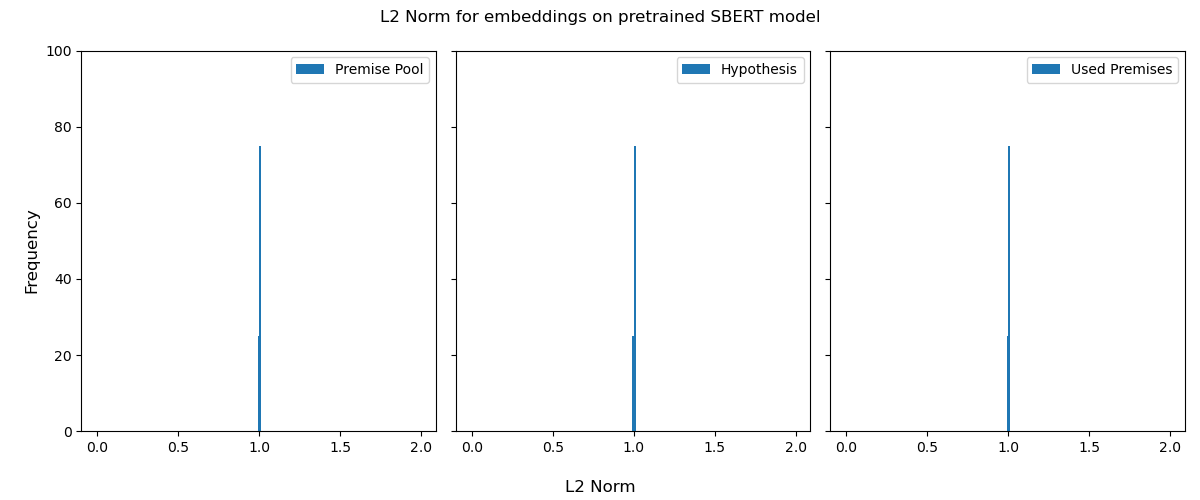
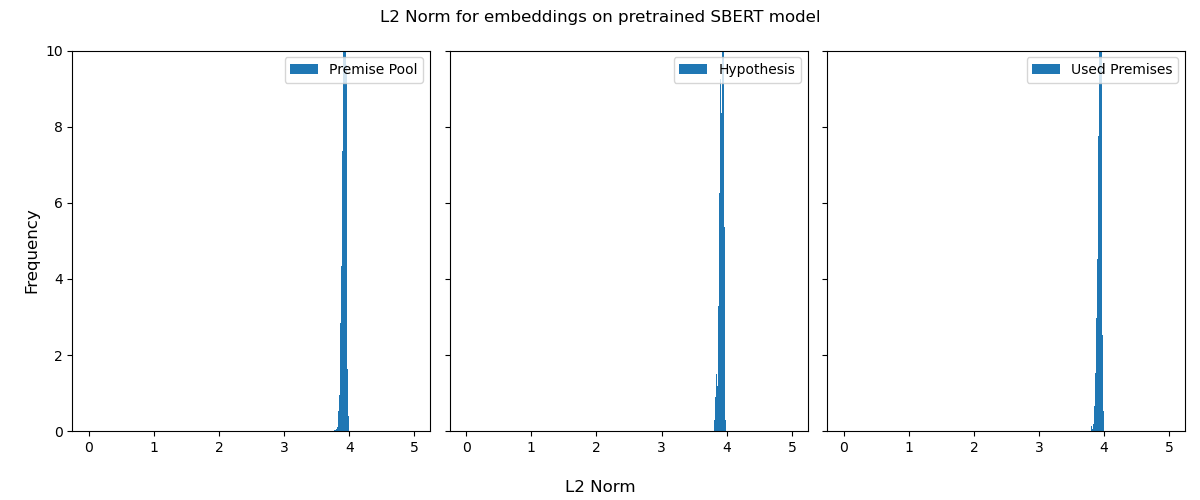
More visual evaluations

diff --git a/eval_compositional_model.py b/eval_compositional_model.py
@@ -1,0 +1,60 @@
+import argparse
+import torch
+import sys
+
+from sentence_transformers import SentenceTransformer
+
+from train_composition import gen_projection_model
+from eval_pretrain_model import genL2report
+
+def evaluateCompositional(model, query_model):
+    # Load data
+    #test_dataset = TripletEvalDataset(os.path.join(os.getcwd(), args.test_data))
+    test_dataset = TripletEvalDataset(os.path.join(os.getcwd(), 'data/test_data.txt'))
+    test_dataloader = DataLoader(test_dataset, batch_size=1, shuffle=False)
+
+    # Evaluate
+    evaluator = RerankingEvaluator(test_dataset)
+    query_model.evaluate(evaluator, output_path=args.save_dir)
+    #query_model.evaluate(evaluator, output_path='output/')
+
+    # Test
+    query_model = SentenceTransformer(args.save_dir).to(device)
+    evaluateCompositional(query_model, query_model)
+
+
+
+def main(args):
+    device = torch.device("cuda" if torch.cuda.is_available() else "cpu")
+    #./checkpoints/triplet_adjacent/
+    model = SentenceTransformer(args.model).to(device)
+    if args.model_path:
+        print("Loading query model from checkpoint...")
+        model.load_state_dict(torch.load(args.model_path))
+    
+    # evaluate(query_model, query_model, split=args.split, debug=args.debug)
+    # retrieve(query_model)
+
+    # remove the last Normalization layer
+    #query_model = SentenceTransformer(modules=[query_model[0], query_model[1]]).to(device)
+
+    # Projection model
+    model = gen_projection_model(model, device)
+
+    # L2 norm of premise-pool, test data from 3 baseline models
+    genL2report(model, args.fig_filename)
+
+
+if __name__ == "__main__":
+    parser = argparse.ArgumentParser()
+    parser.add_argument("--model", type=str, default="all-mpnet-base-v2",
+                        help="pre-trained model \
+                            (best general purpose model: all-mpnet-base-v2 (https://huggingface.co/sentence-transformers/all-mpnet-base-v2); \
+                            best semantic search model: multi-qa-mpnet-base-dot-v1 (https://huggingface.co/sentence-transformers/multi-qa-mpnet-base-dot-v1))")
+    parser.add_argument("--model-path", type=str, help="specify to evaluate a specific query model")
+    parser.add_argument("--split", type=str, default="test", help="data split to evaluate on (train, dev, test)")
+    parser.add_argument("--fig-filename", type=str)
+    parser.add_argument("--debug", action="store_true")
+    args = parser.parse_args()
+
+    main(args)

diff --git a/eval_pretrain_model.py b/eval_pretrain_model.py
@@ -244,7 +244,7 @@ def retrieve(premise_model):
         if count >= 20:
             break
 
-def genL2report(model):
+def genL2report(model, fig_filename):
     hypo_to_premises = load_target_dict("test")
     premise_pool = load_premise_pool()
 
@@ -274,14 +274,14 @@ def genL2report(model):
     print(prem_pool_norm.mean())
     print(hypo_norm.mean())
     print(prems_norm.mean())
-    print(hypo_norm[:20])
+    print(hypo_norm[:6])
 
-    bins = np.arange(0, 2, 0.01)
+    bins = np.arange(0, 5, 0.01)
 
     # Generate histogram
     #https://stackoverflow.com/questions/26218704/matplotlib-histogram-with-collection-bin-for-high-values
     fig, axes = plt.subplots(1, 3, sharey=True, sharex=True, figsize=(12, 5))
-    plt.setp(axes, ylim=(0, 100))
+    plt.setp(axes, ylim=(0, 10))
 
     axes[0].hist(np.clip(prem_pool_norm, bins[0], bins[-1]), bins=bins, density=True, label='Premise Pool')
     axes[0].legend(loc='upper right')
@@ -297,8 +297,9 @@ def genL2report(model):
     fig.supylabel("Frequency")
     fig.tight_layout()
     
-    #plt.savefig('l2_norm_finetune_root_leaf.png')
-    plt.show()
+    print("Saving figure...")
+    plt.savefig(fig_filename)   #'l2_norm_finetune_adjacent.png' #finetune_root_leaf
+    #plt.show()
 
 
 
@@ -314,8 +315,11 @@ def main(args):
     # evaluate(query_model, query_model, split=args.split, debug=args.debug)
     # retrieve(query_model)
 
+    # remove the last Normalization layer
+    query_model = SentenceTransformer(modules=[query_model[0], query_model[1]]).to(device)
+
     # L2 norm of premise-pool, test data from 3 baseline models
-    genL2report(query_model)
+    genL2report(query_model, args.fig_filename)
 
 
 if __name__ == "__main__":
@@ -326,6 +330,7 @@ if __name__ == "__main__":
                             best semantic search model: multi-qa-mpnet-base-dot-v1 (https://huggingface.co/sentence-transformers/multi-qa-mpnet-base-dot-v1))")
     parser.add_argument("--model-path", type=str, help="specify to evaluate a specific query model")
     parser.add_argument("--split", type=str, default="test", help="data split to evaluate on (train, dev, test)")
+    parser.add_argument("--fig-filename", type=str)
     parser.add_argument("--debug", action="store_true")
     args = parser.parse_args()
 

diff --git a/util/README.md b/util/README.md
@@ -1,0 +1,5 @@
+## Utilities used for compositional learning
+
+### Data inspection, formatting and loading
+### Training model and framework
+### Evaluation methods
